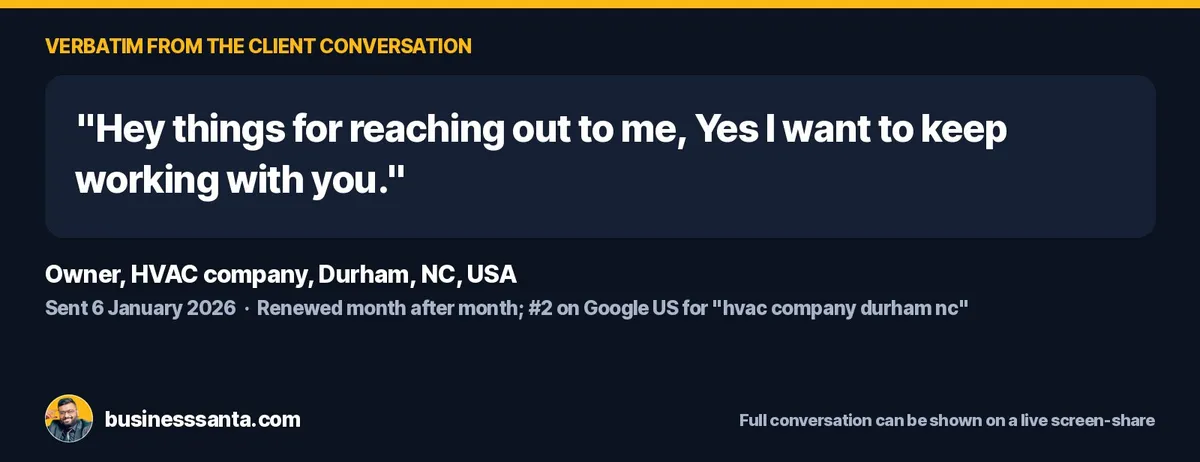
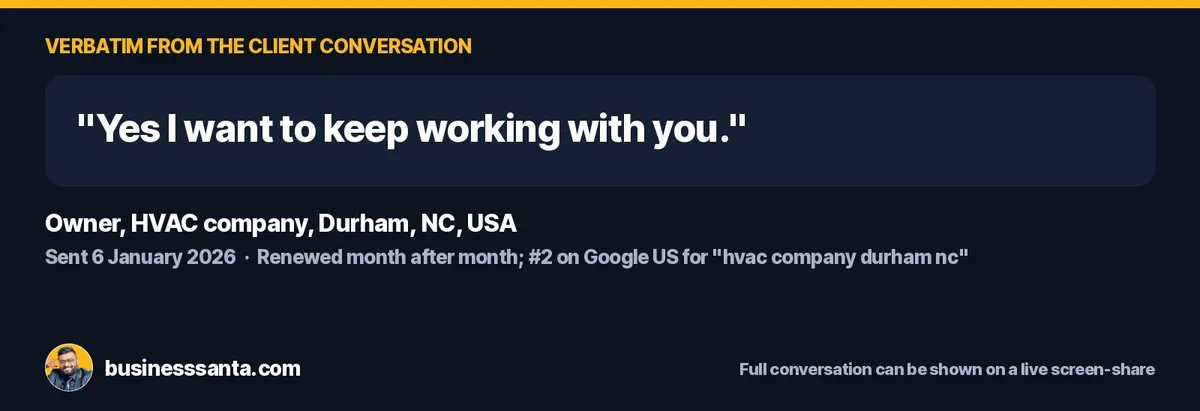
Business Santa: HVAC client quote card shows only the verified sentence
Claude-Session: https://claude.ai/code/session_01VHdn5sRw2UnV7db21LugZG

diff --git a/sites/businesssanta/results/hvac-seo-durham-nc.html b/sites/businesssanta/results/hvac-seo-durham-nc.html
@@ -103,7 +103,7 @@ body{padding-bottom:76px}@media(min-width:900px){body{padding-bottom:0}}
 <h2>The <span class="ac">results</span></h2>
 <ol class="steps"><li><b>Visibility</b>54.2K Google impressions and 1.1K organic keywords (November 2025 report)</li><li><b>Rankings</b>Average Google position improved from 41.9 to 24.5, roughly from page 5 to page 3 (December 2025)</li><li><b>Live check</b>#2 on Google US for &quot;hvac company durham nc&quot; (the first HVAC company website), #5 for &quot;hvac maintenance plan durham nc&quot; and &quot;ac repair cost durham nc&quot; with a Hays blog page (14 Nov 2026)</li><li><b>Partnership</b>Renewed month after month, including two 2-month plans</li></ol>
 <h2>The <span class="ac">proof</span></h2>
-<figure class="shot"><img src="/assets/img/results/card-serp-hvac-company-durham-nc.webp" alt="Live Google US check, 14 November 2026." width="1200" height="1566" loading="lazy" decoding="async"><figcaption>Live Google US check, 14 November 2026.</figcaption></figure><figure class="shot"><img src="/assets/img/results/card-t14-us-hvac-durham.webp" alt="The client&#x27;s own message, 6 January 2026." width="1200" height="462" loading="lazy" decoding="async"><figcaption>The client&#x27;s own message, 6 January 2026.</figcaption></figure>
+<figure class="shot"><img src="/assets/img/results/card-serp-hvac-company-durham-nc.webp" alt="Live Google US check, 14 November 2026." width="1200" height="1566" loading="lazy" decoding="async"><figcaption>Live Google US check, 14 November 2026.</figcaption></figure><figure class="shot"><img src="/assets/img/results/card-t14-us-hvac-durham.webp" alt="The client&#x27;s own message, 6 January 2026." width="1200" height="411" loading="lazy" decoding="async"><figcaption>The client&#x27;s own message, 6 January 2026.</figcaption></figure>
 <h3 style="margin-top:28px">In the client’s own words</h3>
 <blockquote class="qt">“Yes the blog post look good. Thanks”<small>Owner, HVAC company, Durham, NC, USA, November 2025</small></blockquote><blockquote class="qt">“Yes I want to keep working with you.”<small>Owner, HVAC company, Durham, NC, USA, January 2026</small></blockquote><blockquote class="qt">“Everything seems to be going well.”<small>Owner, HVAC company, Durham, NC, USA, May 2026, renewing for 2 months</small></blockquote><blockquote class="qt">“Perfect, you can make it live online now.”<small>Owner, HVAC company, Durham, NC, USA, June 2026, on the new service plan page</small></blockquote>
 <p class="src">Quotes are copied word for word from our conversations with the client. The full conversation can be shown on a live screen-share.</p>
